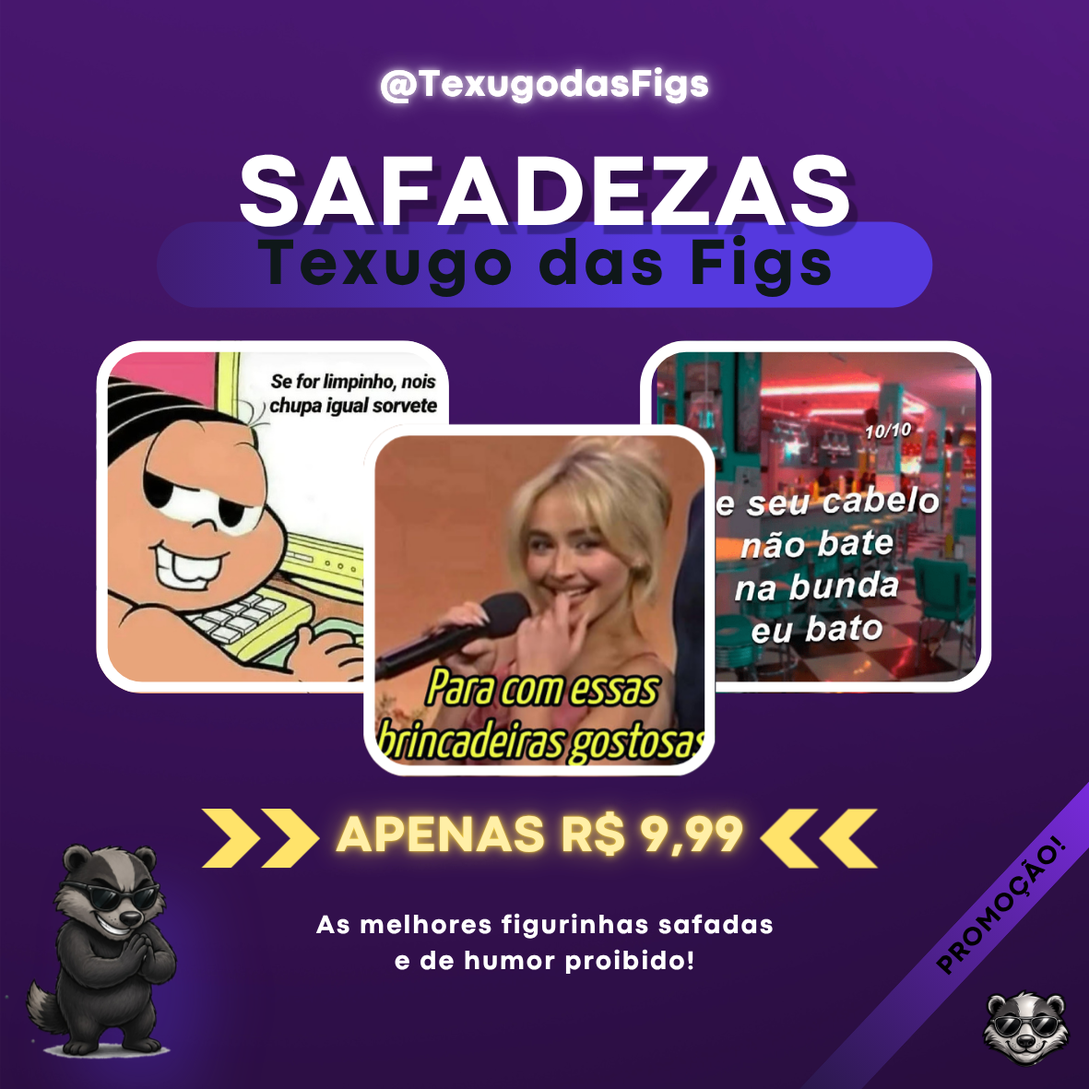
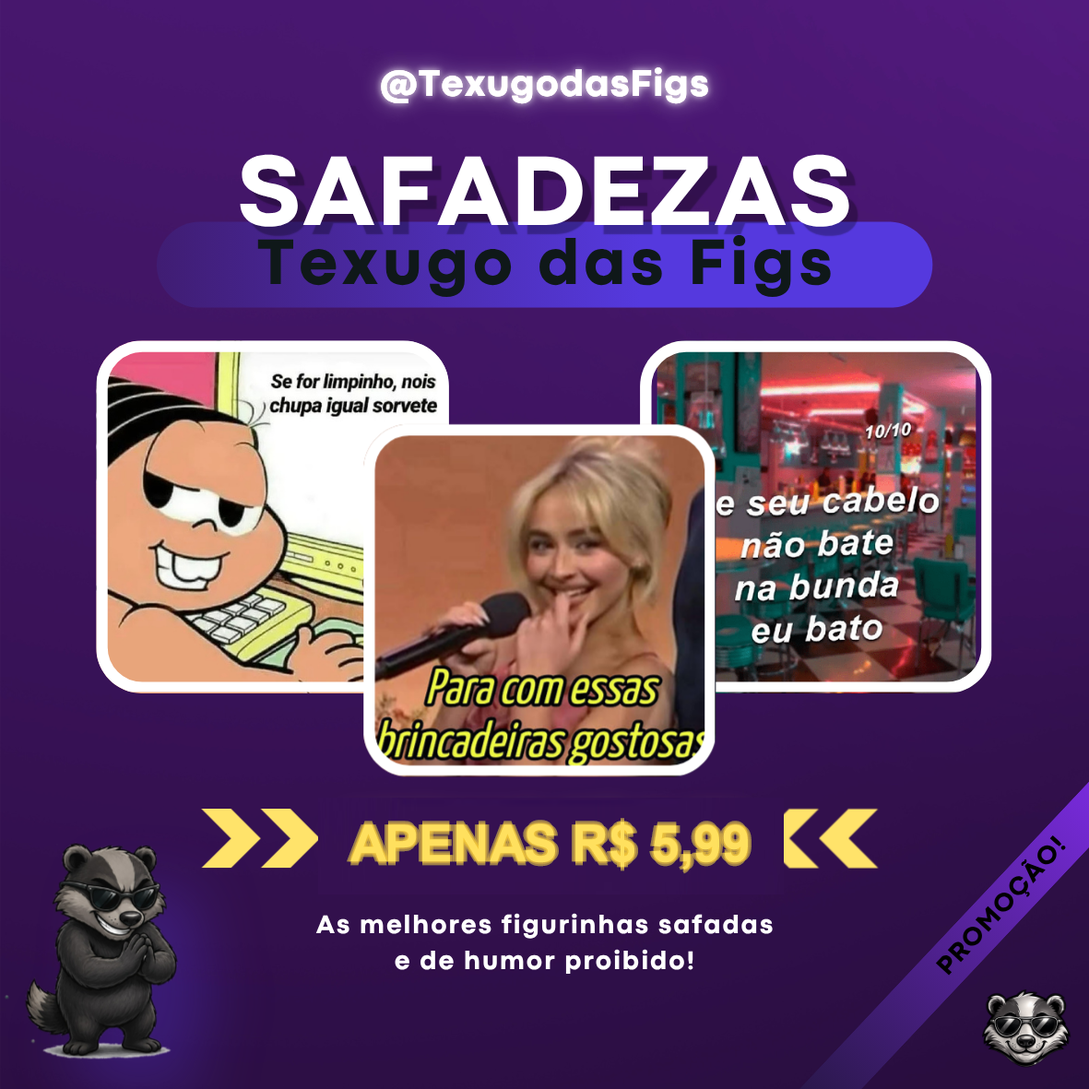
Atualiza precos e melhora fluxo de pedidos

Changed region(s): [[0.3048, 0.7316, 0.7316, 0.823]]

diff --git a/data.js b/data.js
@@ -9,35 +9,35 @@ window.STORE = {
     whatsapp: "https://wa.me/5588988181514?text=Olá%20Texugo%20das%20Figs!%20Quero%20saber%20mais%20sobre%20os%20packs."
   },
   packs: [
-    {id:"premium",title:"Premium Pack",category:"premium",price:19.99,count:"+800",image:"assets/packs/03-premium.png",color:"#d5ac2e",description:"Todos os packs da loja em uma única compra — a opção com melhor custo-benefício.",longDescription:"O Premium Pack reúne todo o acervo disponível no site no momento da compra. É ideal para quem não quer escolher apenas um tema e deseja ter uma resposta pronta para qualquer conversa: humor, reações, futebol, anime, trabalho, fandoms e muito mais. O acesso é vitalício e o pagamento é feito uma única vez.",previews:["assets/previas/respostas/respostas-06.mp4","assets/previas/safadezas/safadezas-01.mp4","assets/previas/anime/anime-02.mp4","assets/previas/league-of-legends/lol-05.jpeg","assets/previas/futebol/futebol-03.jpeg"],payment:"https://mpago.la/1up4NMd"},
-    {id:"respostas",title:"Respostas e Reações",category:"humor",price:9.99,count:"+ de 60",image:"assets/packs/01-respostas.png",color:"#2bbd6e",description:"Respostas secas, reações certeiras e memes para encerrar qualquer assunto com personalidade.",longDescription:"O carro-chefe do Texugo das Figs. Uma seleção variada de respostas secas, reações engraçadas e memes para aquela mensagem que você sabe exatamente como responder, mas prefere deixar uma figurinha falar por você. Inclui opções estáticas e animadas para todos os tipos de conversa.",featuredPreview:"assets/previas/respostas/respostas-06.mp4",previews:["assets/previas/respostas/respostas-01.mp4","assets/previas/respostas/respostas-02.mp4","assets/previas/respostas/respostas-03.jpeg","assets/previas/respostas/respostas-04.jpeg","assets/previas/respostas/respostas-05.jpeg"],payment:"https://mpago.la/22gk3Nq"},
-    {id:"safadezas",title:"Safadezas",category:"humor",price:9.99,count:"+ de 60",image:"assets/packs/04-safadezas.png",mascot:"assets/emotes/safadezas-canva.png",mascotMode:"canva",color:"#8134d7",description:"Humor picante e figurinhas ousadas para conversas com intimidade e bom humor.",longDescription:"Um pack de teor mais ousado, feito para conversas adultas e bem-humoradas. Reúne cantadas picantes, respostas atrevidas e reações para apimentar o papo. Use com intimidade, responsabilidade e, claro, muita zoeira.",featuredPreview:"assets/previas/safadezas/safadezas-01.mp4",previews:["assets/previas/safadezas/safadezas-01.mp4","assets/previas/safadezas/safadezas-02.mp4","assets/previas/safadezas/safadezas-03.jpeg","assets/previas/safadezas/safadezas-04.jpeg","assets/previas/safadezas/safadezas-05.jpeg"],payment:"https://mpago.la/1XbjVzy"},
-    {id:"trabalho",title:"Trabalho",category:"lifestyle",price:9.99,count:"+ de 60",image:"assets/packs/07-trabalho.png",mascot:"assets/emotes/trabalho.jpeg",color:"#329dd5",description:"The Office, CLT e aquela dose de humor necessária para sobreviver ao expediente.",longDescription:"Feito para o grupo da firma e para quem vive a rotina CLT. Tem memes de The Office, reuniões que poderiam ser um e-mail, cobranças, atrasos e todas as pequenas alegrias e tragédias do expediente. Perfeito para reagir sem precisar escrever um relatório.",featuredPreview:"assets/previas/trabalho/trabalho-01.mp4",previews:["assets/previas/trabalho/trabalho-01.mp4","assets/previas/trabalho/trabalho-02.mp4","assets/previas/trabalho/trabalho-03.mp4","assets/previas/trabalho/trabalho-04.jpeg","assets/previas/trabalho/trabalho-05.jpeg"],payment:"https://mpago.la/1PAKBbJ"},
-    {id:"eleicoes",title:"Eleições Memes",category:"humor",price:8.99,count:"+ de 60",image:"assets/packs/10-eleicoes.png",mascot:"assets/emotes/eleicoes.jpeg",color:"#dc413e",description:"Memes de política de todos os lados para animar o grupo da família.",longDescription:"Uma coleção de memes políticos para brincar com os acontecimentos, os candidatos e as discussões que nunca acabam no grupo da família. O humor não escolhe lado: o objetivo aqui é ter a reação perfeita e render boas risadas.",featuredPreview:"assets/previas/eleicoes/eleicoes-02.mp4",previews:["assets/previas/eleicoes/eleicoes-01.mp4","assets/previas/eleicoes/eleicoes-02.mp4","assets/previas/eleicoes/eleicoes-03.jpeg","assets/previas/eleicoes/eleicoes-04.jpeg","assets/previas/eleicoes/eleicoes-05.jpeg"],payment:"https://mpago.la/17YhUo3"},
-    {id:"kpop",title:"K-Pop Memes",category:"fandoms",price:9.99,count:"+ de 60",image:"assets/packs/05-kpop.png",mascot:"assets/emotes/kpop.jpeg",color:"#a874dc",description:"Reações e memes do universo K-Pop para mandar no grupo do fandom.",longDescription:"Um pack feito para quem vive cada comeback, acompanha seus idols favoritos e sempre tem uma reação pronta no grupo do fandom. Reúne memes, expressões e momentos perfeitos para comemorar, surtar e compartilhar seu amor pelo K-Pop.",featuredPreview:"assets/previas/kpop/kpop-01.mp4",previews:["assets/previas/kpop/kpop-01.mp4","assets/previas/kpop/kpop-02.mp4","assets/previas/kpop/kpop-03.jpeg","assets/previas/kpop/kpop-04.jpeg","assets/previas/kpop/kpop-05.jpeg"],payment:"https://mpago.la/2EtabLW"},
-    {id:"futebol",title:"Futebol Memes",category:"esportes",price:9.99,count:"+ de 60",image:"assets/packs/11-futebol.png",mascot:"assets/emotes/futebol-canva.png",mascotMode:"canva",color:"#24b663",description:"As melhores reações para resenha, pelada, vitória, derrota e corneta.",longDescription:"Para o grupo da pelada e para os amigos que não perdoam um resultado ruim. Este pack reúne memes de futebol, jogadores, torcidas e aquelas reações que servem tanto para comemorar uma vitória quanto para cornetar o rival.",featuredPreview:"assets/previas/futebol/futebol-03.jpeg",previews:["assets/previas/futebol/futebol-01.mp4","assets/previas/futebol/futebol-02.mp4","assets/previas/futebol/futebol-03.jpeg","assets/previas/futebol/futebol-04.jpeg","assets/previas/futebol/futebol-05.jpeg"],payment:"https://mpago.la/1wGmW4U"},
-    {id:"divas-pop",title:"Divas Pop",category:"fandoms",price:9.99,count:"+ de 60",image:"assets/packs/06-divas-pop.png",mascot:"assets/emotes/divas-pop.jpeg",color:"#d751b8",description:"Suas cantoras pop favoritas transformadas em reações para qualquer momento.",longDescription:"As maiores divas pop reunidas em um pack cheio de personalidade. São reações icônicas, momentos dramáticos, sorrisos, lágrimas e muita atitude para você usar em qualquer conversa — principalmente quando só uma diva consegue expressar o que você está sentindo.",featuredPreview:"assets/previas/divas-pop/divas-pop-05.jpeg",previews:["assets/previas/divas-pop/divas-pop-01.mp4","assets/previas/divas-pop/divas-pop-02.mp4","assets/previas/divas-pop/divas-pop-03.mp4","assets/previas/divas-pop/divas-pop-04.jpeg","assets/previas/divas-pop/divas-pop-05.jpeg"],payment:"https://mpago.la/28M7wQ9"},
-    {id:"gym",title:"Gym Memes",category:"lifestyle",price:4.99,count:"+ de 40",image:"assets/packs/02-gym.png",mascot:"assets/emotes/gym.jpeg",color:"#aeb4b3",description:"O pack para quem treina, promete treinar ou só quer rir da vida fitness.",longDescription:"Academia, musculação, dieta e a eterna luta contra a preguiça. Este pack foi feito tanto para quem não perde um treino quanto para quem só aparece na segunda-feira. Memes fitness para compartilhar com seu parceiro de treino e transformar sofrimento em risada.",featuredPreview:"assets/previas/gym/gym-04.jpeg",previews:["assets/previas/gym/gym-01.mp4","assets/previas/gym/gym-02.jpeg","assets/previas/gym/gym-03.jpeg","assets/previas/gym/gym-04.jpeg","assets/previas/gym/gym-05.jpeg"],payment:"https://mpago.la/25NzDDm"},
-    {id:"anime",title:"Anime Memes",category:"fandoms",price:9.99,count:"+ de 60",image:"assets/packs/08-anime.png",mascot:"assets/emotes/anime.jpeg",color:"#378fd4",description:"Anime, cultura otaku e reações perfeitas para o grupo dos seus nakamas.",longDescription:"Feito para compartilhar com os amigos fãs dos desenhos japoneses. O pack mistura personagens conhecidos, momentos clássicos, reações exageradas e memes da cultura otaku para usar em qualquer situação — do episódio novo à discussão sobre o melhor anime.",featuredPreview:"assets/previas/anime/anime-02.mp4",previews:["assets/previas/anime/anime-01.mp4","assets/previas/anime/anime-02.mp4","assets/previas/anime/anime-03.mp4","assets/previas/anime/anime-04.jpeg","assets/previas/anime/anime-05.jpeg"],payment:"https://mpago.la/2SEfHpp"},
-    {id:"cantadas",title:"Cantadas Enfadonhas",category:"humor",price:9.99,count:"+ de 60",image:"assets/packs/12-cantadas.png",mascot:"assets/emotes/cantadas.jpeg",color:"#e86580",description:"Cantadas ruins o bastante para funcionar — ou pelo menos render uma boa risada.",longDescription:"Figurinhas românticas de gêneros variados, misturando cantadas engraçadas, declarações exageradas e reações para quem está apaixonado. Talvez você não conquiste o crush de primeira, mas certamente vai conseguir começar uma conversa.",featuredPreview:"assets/previas/cantadas/cantadas-05.jpeg",previews:["assets/previas/cantadas/cantadas-01.mp4","assets/previas/cantadas/cantadas-02.mp4","assets/previas/cantadas/cantadas-03.jpeg","assets/previas/cantadas/cantadas-04.jpeg","assets/previas/cantadas/cantadas-05.jpeg"],payment:"https://mpago.la/1Gpmr6e"},
-    {id:"league-of-legends",title:"League of Legends",category:"games",price:9.99,count:"+ de 60",image:"assets/packs/09-lol.png",mascot:"assets/emotes/lol.jpeg",color:"#374cb7",description:"Para comemorar a vitória, lamentar o feed e reagir como um verdadeiro invocador.",longDescription:"Um pack para quem conhece a alegria de uma vitória e a tristeza profunda de uma sequência de derrotas. Campeões, jogadores, jogadas duvidosas e reações para usar antes, durante e depois da partida — especialmente quando alguém culpa o jungler.",featuredPreview:"assets/previas/league-of-legends/lol-05.jpeg",previews:["assets/previas/league-of-legends/lol-01.mp4","assets/previas/league-of-legends/lol-02.mp4","assets/previas/league-of-legends/lol-03.jpeg","assets/previas/league-of-legends/lol-04.jpeg","assets/previas/league-of-legends/lol-05.jpeg"],payment:"https://mpago.la/2KBVoNj"}
+    {id:"premium",title:"Premium Pack",category:"premium",price:11.99,count:"Todos os packs",image:"assets/packs/03-premium.png",color:"#d5ac2e",description:"Um único pagamento que dá direito a escolher todos os packs que quiser da loja — inclusive os temas mais nichados.",longDescription:"Com o Premium Pack, você não precisa escolher apenas um tema: pelo valor único do Premium, você tem direito a solicitar todos os packs que quiser disponíveis no site. Depois do pagamento, use o botão de atendimento para abrir seu pedido no WhatsApp. Você monta sua coleção com humor, reações, futebol, anime, trabalho, fandoms e outros nichos sem pagar separadamente por cada pack.",previews:["assets/previas/respostas/respostas-06.mp4","assets/previas/safadezas/safadezas-01.mp4","assets/previas/anime/anime-02.mp4","assets/previas/league-of-legends/lol-05.jpeg","assets/previas/futebol/futebol-03.jpeg"],payment:"https://mpago.la/1up4NMd"},
+    {id:"respostas",title:"Respostas e Reações",category:"humor",price:5.99,count:"+ de 60",image:"assets/packs/01-respostas.png",color:"#2bbd6e",description:"Respostas secas, reações certeiras e memes para encerrar qualquer assunto com personalidade.",longDescription:"O carro-chefe do Texugo das Figs. Uma seleção variada de respostas secas, reações engraçadas e memes para aquela mensagem que você sabe exatamente como responder, mas prefere deixar uma figurinha falar por você. Inclui opções estáticas e animadas para todos os tipos de conversa.",featuredPreview:"assets/previas/respostas/respostas-06.mp4",previews:["assets/previas/respostas/respostas-01.mp4","assets/previas/respostas/respostas-02.mp4","assets/previas/respostas/respostas-03.jpeg","assets/previas/respostas/respostas-04.jpeg","assets/previas/respostas/respostas-05.jpeg"],payment:"https://mpago.la/22gk3Nq"},
+    {id:"safadezas",title:"Safadezas",category:"humor",price:5.99,count:"+ de 60",image:"assets/packs/04-safadezas.png",mascot:"assets/emotes/safadezas-canva.png",mascotMode:"canva",color:"#8134d7",description:"Humor picante e figurinhas ousadas para conversas com intimidade e bom humor.",longDescription:"Um pack de teor mais ousado, feito para conversas adultas e bem-humoradas. Reúne cantadas picantes, respostas atrevidas e reações para apimentar o papo. Use com intimidade, responsabilidade e, claro, muita zoeira.",featuredPreview:"assets/previas/safadezas/safadezas-01.mp4",previews:["assets/previas/safadezas/safadezas-01.mp4","assets/previas/safadezas/safadezas-02.mp4","assets/previas/safadezas/safadezas-03.jpeg","assets/previas/safadezas/safadezas-04.jpeg","assets/previas/safadezas/safadezas-05.jpeg"],payment:"https://mpago.la/1XbjVzy"},
+    {id:"trabalho",title:"Trabalho",category:"lifestyle",price:5.99,count:"+ de 60",image:"assets/packs/07-trabalho.png",mascot:"assets/emotes/trabalho.jpeg",color:"#329dd5",description:"The Office, CLT e aquela dose de humor necessária para sobreviver ao expediente.",longDescription:"Feito para o grupo da firma e para quem vive a rotina CLT. Tem memes de The Office, reuniões que poderiam ser um e-mail, cobranças, atrasos e todas as pequenas alegrias e tragédias do expediente. Perfeito para reagir sem precisar escrever um relatório.",featuredPreview:"assets/previas/trabalho/trabalho-01.mp4",previews:["assets/previas/trabalho/trabalho-01.mp4","assets/previas/trabalho/trabalho-02.mp4","assets/previas/trabalho/trabalho-03.mp4","assets/previas/trabalho/trabalho-04.jpeg","assets/previas/trabalho/trabalho-05.jpeg"],payment:"https://mpago.la/1PAKBbJ"},
+    {id:"eleicoes",title:"Eleições Memes",category:"humor",price:4.99,count:"+ de 60",image:"assets/packs/10-eleicoes.png",mascot:"assets/emotes/eleicoes.jpeg",color:"#dc413e",description:"Memes de política de todos os lados para animar o grupo da família.",longDescription:"Uma coleção de memes políticos para brincar com os acontecimentos, os candidatos e as discussões que nunca acabam no grupo da família. O humor não escolhe lado: o objetivo aqui é ter a reação perfeita e render boas risadas.",featuredPreview:"assets/previas/eleicoes/eleicoes-02.mp4",previews:["assets/previas/eleicoes/eleicoes-01.mp4","assets/previas/eleicoes/eleicoes-02.mp4","assets/previas/eleicoes/eleicoes-03.jpeg","assets/previas/eleicoes/eleicoes-04.jpeg","assets/previas/eleicoes/eleicoes-05.jpeg"],payment:"https://mpago.la/17YhUo3"},
+    {id:"kpop",title:"K-Pop Memes",category:"fandoms",price:5.99,count:"+ de 60",image:"assets/packs/05-kpop.png",mascot:"assets/emotes/kpop.jpeg",color:"#a874dc",description:"Reações e memes do universo K-Pop para mandar no grupo do fandom.",longDescription:"Um pack feito para quem vive cada comeback, acompanha seus idols favoritos e sempre tem uma reação pronta no grupo do fandom. Reúne memes, expressões e momentos perfeitos para comemorar, surtar e compartilhar seu amor pelo K-Pop.",featuredPreview:"assets/previas/kpop/kpop-01.mp4",previews:["assets/previas/kpop/kpop-01.mp4","assets/previas/kpop/kpop-02.mp4","assets/previas/kpop/kpop-03.jpeg","assets/previas/kpop/kpop-04.jpeg","assets/previas/kpop/kpop-05.jpeg"],payment:"https://mpago.la/2EtabLW"},
+    {id:"futebol",title:"Futebol Memes",category:"esportes",price:5.99,count:"+ de 60",image:"assets/packs/11-futebol.png",mascot:"assets/emotes/futebol-canva.png",mascotMode:"canva",color:"#24b663",description:"As melhores reações para resenha, pelada, vitória, derrota e corneta.",longDescription:"Para o grupo da pelada e para os amigos que não perdoam um resultado ruim. Este pack reúne memes de futebol, jogadores, torcidas e aquelas reações que servem tanto para comemorar uma vitória quanto para cornetar o rival.",featuredPreview:"assets/previas/futebol/futebol-03.jpeg",previews:["assets/previas/futebol/futebol-01.mp4","assets/previas/futebol/futebol-02.mp4","assets/previas/futebol/futebol-03.jpeg","assets/previas/futebol/futebol-04.jpeg","assets/previas/futebol/futebol-05.jpeg"],payment:"https://mpago.la/1wGmW4U"},
+    {id:"divas-pop",title:"Divas Pop",category:"fandoms",price:5.99,count:"+ de 60",image:"assets/packs/06-divas-pop.png",mascot:"assets/emotes/divas-pop.jpeg",color:"#d751b8",description:"Suas cantoras pop favoritas transformadas em reações para qualquer momento.",longDescription:"As maiores divas pop reunidas em um pack cheio de personalidade. São reações icônicas, momentos dramáticos, sorrisos, lágrimas e muita atitude para você usar em qualquer conversa — principalmente quando só uma diva consegue expressar o que você está sentindo.",featuredPreview:"assets/previas/divas-pop/divas-pop-05.jpeg",previews:["assets/previas/divas-pop/divas-pop-01.mp4","assets/previas/divas-pop/divas-pop-02.mp4","assets/previas/divas-pop/divas-pop-03.mp4","assets/previas/divas-pop/divas-pop-04.jpeg","assets/previas/divas-pop/divas-pop-05.jpeg"],payment:"https://mpago.la/28M7wQ9"},
+    {id:"gym",title:"Gym Memes",category:"lifestyle",price:2.50,count:"+ de 40",image:"assets/packs/02-gym.png",mascot:"assets/emotes/gym.jpeg",color:"#aeb4b3",description:"O pack para quem treina, promete treinar ou só quer rir da vida fitness.",longDescription:"Academia, musculação, dieta e a eterna luta contra a preguiça. Este pack foi feito tanto para quem não perde um treino quanto para quem só aparece na segunda-feira. Memes fitness para compartilhar com seu parceiro de treino e transformar sofrimento em risada.",featuredPreview:"assets/previas/gym/gym-04.jpeg",previews:["assets/previas/gym/gym-01.mp4","assets/previas/gym/gym-02.jpeg","assets/previas/gym/gym-03.jpeg","assets/previas/gym/gym-04.jpeg","assets/previas/gym/gym-05.jpeg"],payment:"https://mpago.la/25NzDDm"},
+    {id:"anime",title:"Anime Memes",category:"fandoms",price:5.99,count:"+ de 60",image:"assets/packs/08-anime.png",mascot:"assets/emotes/anime.jpeg",color:"#378fd4",description:"Anime, cultura otaku e reações perfeitas para o grupo dos seus nakamas.",longDescription:"Feito para compartilhar com os amigos fãs dos desenhos japoneses. O pack mistura personagens conhecidos, momentos clássicos, reações exageradas e memes da cultura otaku para usar em qualquer situação — do episódio novo à discussão sobre o melhor anime.",featuredPreview:"assets/previas/anime/anime-02.mp4",previews:["assets/previas/anime/anime-01.mp4","assets/previas/anime/anime-02.mp4","assets/previas/anime/anime-03.mp4","assets/previas/anime/anime-04.jpeg","assets/previas/anime/anime-05.jpeg"],payment:"https://mpago.la/2SEfHpp"},
+    {id:"cantadas",title:"Cantadas Enfadonhas",category:"humor",price:5.99,count:"+ de 60",image:"assets/packs/12-cantadas.png",mascot:"assets/emotes/cantadas.jpeg",color:"#e86580",description:"Cantadas ruins o bastante para funcionar — ou pelo menos render uma boa risada.",longDescription:"Figurinhas românticas de gêneros variados, misturando cantadas engraçadas, declarações exageradas e reações para quem está apaixonado. Talvez você não conquiste o crush de primeira, mas certamente vai conseguir começar uma conversa.",featuredPreview:"assets/previas/cantadas/cantadas-05.jpeg",previews:["assets/previas/cantadas/cantadas-01.mp4","assets/previas/cantadas/cantadas-02.mp4","assets/previas/cantadas/cantadas-03.jpeg","assets/previas/cantadas/cantadas-04.jpeg","assets/previas/cantadas/cantadas-05.jpeg"],payment:"https://mpago.la/1Gpmr6e"},
+    {id:"league-of-legends",title:"League of Legends",category:"games",price:5.99,count:"+ de 60",image:"assets/packs/09-lol.png",mascot:"assets/emotes/lol.jpeg",color:"#374cb7",description:"Para comemorar a vitória, lamentar o feed e reagir como um verdadeiro invocador.",longDescription:"Um pack para quem conhece a alegria de uma vitória e a tristeza profunda de uma sequência de derrotas. Campeões, jogadores, jogadas duvidosas e reações para usar antes, durante e depois da partida — especialmente quando alguém culpa o jungler.",featuredPreview:"assets/previas/league-of-legends/lol-05.jpeg",previews:["assets/previas/league-of-legends/lol-01.mp4","assets/previas/league-of-legends/lol-02.mp4","assets/previas/league-of-legends/lol-03.jpeg","assets/previas/league-of-legends/lol-04.jpeg","assets/previas/league-of-legends/lol-05.jpeg"],payment:"https://mpago.la/2KBVoNj"}
   ]
 };
 
 // Preços exibidos na loja. Gym e Eleições mantêm seus valores promocionais próprios.
 const currentPrices = {
-  premium: 19.99,
-  respostas: 9.99,
-  safadezas: 9.99,
-  trabalho: 9.99,
-  eleicoes: 8.99,
-  kpop: 9.99,
-  futebol: 9.99,
-  "divas-pop": 9.99,
-  gym: 4.99,
-  anime: 9.99,
-  cantadas: 9.99,
-  "league-of-legends": 9.99
+  premium: 11.99,
+  respostas: 5.99,
+  safadezas: 5.99,
+  trabalho: 5.99,
+  eleicoes: 4.99,
+  kpop: 5.99,
+  futebol: 5.99,
+  "divas-pop": 5.99,
+  gym: 2.50,
+  anime: 5.99,
+  cantadas: 5.99,
+  "league-of-legends": 5.99
 };
 
 window.STORE.packs.forEach(pack => {
@@ -45,6 +45,6 @@ window.STORE.packs.forEach(pack => {
   if (pack.id === "premium") {
     pack.count = "Todos os packs";
     pack.description = "Um único pagamento que dá direito a escolher todos os packs que quiser da loja — inclusive os temas mais nichados.";
-    pack.longDescription = "Com o Premium Pack, você não precisa escolher apenas um tema: pelo valor único do Premium, você tem direito a solicitar todos os packs que quiser disponíveis no site. Depois do pagamento, basta enviar no WhatsApp o nome do Premium Pack e o comprovante. Você monta sua coleção com humor, reações, futebol, anime, trabalho, fandoms e outros nichos sem pagar separadamente por cada pack.";
+    pack.longDescription = "Com o Premium Pack, você não precisa escolher apenas um tema: pelo valor único do Premium, você tem direito a solicitar todos os packs que quiser disponíveis no site. Depois do pagamento, use o botão de atendimento para abrir seu pedido no WhatsApp. Você monta sua coleção com humor, reações, futebol, anime, trabalho, fandoms e outros nichos sem pagar separadamente por cada pack.";
   }
 });

diff --git a/index.html b/index.html
@@ -52,18 +52,18 @@
     <section class="purchase-info" id="seguranca" aria-labelledby="purchase-info-title">
       <div class="purchase-info-intro">
         <img src="assets/compra-segura.png" alt="Selo Compra Segura">
-        <div class="purchase-info-heading"><span class="eyebrow">ANTES DE COMPRAR</span><h2 id="purchase-info-title">Compra segura. Entrega no WhatsApp.</h2><p>Depois de pagar, abra nosso WhatsApp, informe o nome do pack e envie o comprovante. As figurinhas serão entregues na mesma conversa.</p></div>
+        <div class="purchase-info-heading"><span class="eyebrow">ANTES DE COMPRAR</span><h2 id="purchase-info-title">Compra segura. Entrega no WhatsApp.</h2><p>Ao escolher um pack, o site cria seu número de pedido. Depois do pagamento, abra a mensagem pronta no WhatsApp para receber as figurinhas na mesma conversa.</p></div>
       </div>
       <div class="purchase-info-grid">
         <article><i>✓</i><div><b>Mercado Pago</b><span>O pagamento é processado com segurança pelo Mercado Pago.</span></div></article>
         <article><i>∞</i><div><b>Pagamento único</b><span>Você paga uma vez e mantém acesso vitalício ao pack adquirido.</span></div></article>
-        <article><i>↗</i><div><b>Entrega no WhatsApp</b><span>Envie o nome do pack e o comprovante. Você recebe as figurinhas diretamente na conversa, em até 24 horas.</span></div></article>
+        <article><i>↗</i><div><b>Entrega no WhatsApp</b><span>O número do pedido e o nome do pack já seguem na mensagem. Você recebe as figurinhas diretamente na conversa, em até 24 horas.</span></div></article>
         <article><i>●</i><div><b>Suporte humano</b><span>Fale pelo WhatsApp, Instagram ou pelo e-mail texugodasfigs@gmail.com.</span></div></article>
         <article><i>◉</i><div><b>Conteúdo sem som</b><span>Os packs podem incluir figurinhas estáticas e animadas, sempre sem áudio.</span></div></article>
         <article><i>18</i><div><b>Conteúdo adulto</b><span>O pack Safadezas é destinado exclusivamente a maiores de 18 anos.</span></div></article>
       </div>
-      <p class="digital-policy"><b>Importante:</b> a entrega não é automática. Após o pagamento, use o botão “Já paguei — ir para o WhatsApp”, informe o nome do pack e anexe o comprovante. É por essa conversa que você receberá as figurinhas.</p>
-      <div class="purchase-info-action"><a class="button whatsapp-button" data-whatsapp-receipt href="#">Receber minhas figurinhas no WhatsApp ↗</a><small>A mensagem já vem pronta. Basta completar o nome do pack comprado; se for necessário, o atendimento solicitará o comprovante.</small></div>
+      <p class="digital-policy"><b>Importante:</b> a entrega é feita por atendimento humano. Após pagar, use o botão “Já paguei — ir para o WhatsApp”. O comprovante só será solicitado se o pagamento ainda estiver pendente ou houver alguma divergência.</p>
+      <div class="purchase-info-action"><a class="button whatsapp-button" data-whatsapp-receipt href="#">Receber minhas figurinhas no WhatsApp ↗</a><small>A mensagem leva o pedido e o pack automaticamente quando a compra é iniciada pelo site.</small></div>
     </section>
 
     <section class="details-section" id="detalhes">
@@ -74,12 +74,12 @@
 
     <section class="steps" id="como-funciona">
       <div class="steps-title"><span class="eyebrow">SEM COMPLICAÇÃO</span><h2>Do clique às figurinhas.</h2><p>Quatro passos claros, com pagamento protegido e entrega feita diretamente pelo WhatsApp.</p></div>
-      <div class="step-grid"><article><b>01</b><i>☝</i><h3>Escolha o pack</h3><p>Compare os temas e selecione seu favorito.</p></article><article><b>02</b><i>▣</i><h3>Faça o pagamento</h3><p>Finalize com segurança pelo Mercado Pago.</p></article><article><b>03</b><i>✆</i><h3>Abra o WhatsApp</h3><p>Após pagar, use o botão do site para iniciar a conversa conosco.</p></article><article><b>04</b><i>✓</i><h3>Envie e receba</h3><p>Mande o nome do pack e o comprovante. Você receberá as figurinhas no WhatsApp.</p><a class="whatsapp-text-link" data-whatsapp-receipt href="#">Abrir mensagem pronta ↗</a></article></div>
+      <div class="step-grid"><article><b>01</b><i>☝</i><h3>Escolha o pack</h3><p>Compare os temas e receba um número de pedido.</p></article><article><b>02</b><i>▣</i><h3>Faça o pagamento</h3><p>Finalize com segurança pelo Mercado Pago.</p></article><article><b>03</b><i>✆</i><h3>Abra o WhatsApp</h3><p>Use a mensagem pronta com seu pedido e o pack escolhido.</p></article><article><b>04</b><i>✓</i><h3>Receba as figurinhas</h3><p>O atendimento confirma a compra e envia tudo diretamente no WhatsApp.</p><a class="whatsapp-text-link" data-whatsapp-receipt href="#">Abrir mensagem pronta ↗</a></article></div>
     </section>
 
     <section class="premium-section" id="premium">
       <div class="premium-image"><img src="assets/packs/03-premium.png" alt="Capa do Premium Pack"><span>MAIS VENDIDO</span></div>
-      <div class="premium-copy"><span class="eyebrow gold-text">O MELHOR CUSTO-BENEFÍCIO</span><h2>Escolha todos os packs<br>que quiser.</h2><p>Pague uma única vez e tenha direito a solicitar todos os packs que quiser da loja — dos favoritos aos temas mais nichados. Depois, abra a mensagem pronta do Premium no WhatsApp para receber sua coleção.</p><div class="premium-metric"><b>12</b><span>packs disponíveis para você escolher</span></div><ul><li>Direito a todos os packs que quiser</li><li>Entrega pelo WhatsApp</li><li>Acesso vitalício</li><li>Pagamento único</li></ul><div class="premium-buy"><strong>R$ 19,99</strong><div class="premium-actions"><button class="button gold" data-buy="premium">Quero o Premium</button><a class="whatsapp-text-link" data-whatsapp-premium href="#">Já paguei — receber no WhatsApp ↗</a></div></div></div>
+      <div class="premium-copy"><span class="eyebrow gold-text">O MELHOR CUSTO-BENEFÍCIO</span><h2>Escolha todos os packs<br>que quiser.</h2><p>Pague uma única vez e tenha direito a solicitar todos os packs que quiser da loja — dos favoritos aos temas mais nichados. Depois, abra a mensagem pronta do Premium no WhatsApp para receber sua coleção.</p><div class="premium-metric"><b>12</b><span>packs disponíveis para você escolher</span></div><ul><li>Direito a todos os packs que quiser</li><li>Entrega pelo WhatsApp</li><li>Acesso vitalício</li><li>Pagamento único</li></ul><div class="premium-buy"><strong>R$ 11,99</strong><div class="premium-actions"><button class="button gold" data-buy="premium">Quero o Premium</button><a class="whatsapp-text-link" data-whatsapp-premium href="#">Já paguei — receber no WhatsApp ↗</a></div></div></div>
     </section>
 
     <section class="custom-banner" id="personalizadas">
@@ -88,12 +88,12 @@
     </section>
 
     <section class="faq"><div class="split-heading"><div><span class="eyebrow">TUDO CLARO</span><h2>Dúvidas frequentes.</h2></div></div>
-      <details><summary>Como receberei as figurinhas?</summary><p>Depois do pagamento, clique em “Já paguei — ir para o WhatsApp”, informe o nome do pack e anexe o comprovante. As figurinhas serão enviadas diretamente nessa conversa.</p></details>
-      <details><summary>O que preciso enviar no WhatsApp?</summary><p>Envie duas informações: o nome exato do pack comprado e o comprovante do pagamento. Isso permite localizar sua compra e separar as figurinhas corretas.</p></details>
-      <details><summary>A entrega é automática?</summary><p>Não. O atendimento é humano. Você inicia a conversa pelo botão do site e recebe as figurinhas no WhatsApp em até 24 horas após enviar o nome do pack e o comprovante.</p></details>
+      <details><summary>Como receberei as figurinhas?</summary><p>Depois do pagamento, clique em “Já paguei — ir para o WhatsApp”. A mensagem já informa o número do pedido e o pack escolhido. As figurinhas serão enviadas diretamente nessa conversa.</p></details>
+      <details><summary>Preciso enviar o comprovante?</summary><p>Normalmente, não. Ele será solicitado somente se o pagamento aparecer como pendente, se houver alguma divergência ou se você tiver usado um Pix direto fora do link do site.</p></details>
+      <details><summary>A entrega é automática?</summary><p>Não. O atendimento é humano. Você inicia a conversa pela mensagem pronta e recebe as figurinhas no WhatsApp em até 24 horas após a confirmação do pagamento.</p></details>
       <details><summary>O pagamento é feito uma única vez?</summary><p>Sim. Não existe mensalidade ou cobrança recorrente. Você paga uma vez pelo pack escolhido.</p></details>
       <details><summary>O acesso às figurinhas expira?</summary><p>Não. O acesso ao conteúdo adquirido é vitalício.</p></details>
-      <details><summary>Quanto tempo demora a entrega?</summary><p>As figurinhas são enviadas pelo WhatsApp em até 24 horas após você informar o nome do pack e enviar o comprovante.</p></details>
+      <details><summary>Quanto tempo demora a entrega?</summary><p>As figurinhas são enviadas pelo WhatsApp em até 24 horas após a confirmação do pagamento.</p></details>
       <details><summary>Funciona em Android e iPhone?</summary><p>Sim. As figurinhas são preparadas para uso no WhatsApp em celulares Android e iPhone.</p></details>
       <details><summary>Como adiciono as figurinhas ao WhatsApp?</summary><p>As figurinhas e um passo a passo simples são enviados na conversa. Se precisar, o suporte ajuda durante a instalação.</p></details>
       <details><summary>As figurinhas animadas possuem som?</summary><p>Não. Tanto as figurinhas estáticas quanto as animadas são fornecidas sem áudio.</p></details>
@@ -115,17 +115,17 @@
       <button class="purchase-close" type="button" data-close-purchase aria-label="Fechar">×</button>
       <span class="eyebrow">ENTREGA PELO WHATSAPP</span>
       <h2 id="purchase-dialog-title">Compre e receba sem complicação.</h2>
-      <p class="purchase-selected"><b data-purchase-pack>Pack escolhido</b><strong data-purchase-price>R$ 0,00</strong></p>
+      <p class="purchase-selected"><b data-purchase-pack>Pack escolhido</b><strong data-purchase-price>R$ 0,00</strong></p><p class="purchase-order">Pedido <b data-purchase-order>TXG-0000</b></p>
       <div class="purchase-dialog-steps">
         <article><b>1</b><div><strong>Efetue o pagamento</strong><span>Conclua a compra com segurança no Mercado Pago.</span></div></article>
-        <article><b>2</b><div><strong>Vá para o WhatsApp</strong><span>Envie o nome do pack e anexe o comprovante.</span></div></article>
+        <article><b>2</b><div><strong>Vá para o WhatsApp</strong><span>A mensagem já leva seu pedido e o nome do pack.</span></div></article>
         <article><b>3</b><div><strong>Receba as figurinhas</strong><span>A entrega será feita diretamente na mesma conversa.</span></div></article>
       </div>
       <div class="purchase-dialog-actions">
         <a class="button primary" data-payment-link href="#" target="_blank" rel="noopener">1. Pagar no Mercado Pago ↗</a>
         <a class="button whatsapp-button" data-whatsapp-after-payment href="#" target="_blank" rel="noopener">2. Já paguei — ir para o WhatsApp</a>
       </div>
-      <p class="purchase-reminder"><b>Não esqueça:</b> informe o nome do pack e envie o comprovante para receber as figurinhas no WhatsApp.</p>
+      <p class="purchase-reminder"><b>Pronto:</b> seu pedido foi identificado. O comprovante só será solicitado se o pagamento ainda não aparecer ou houver alguma divergência.</p>
     </section>
   </div>
   <script src="data.js"></script><script src="app.js"></script>

diff --git a/app.js b/app.js
@@ -26,8 +26,18 @@ const headlines={
 };
 const money=value=>value.toLocaleString('pt-BR',{style:'currency',currency:'BRL'});
 const whatsappNumber='5588988181514';
-const whatsappReceiptMessage=packName=>`Olá, Texugo das Figs! Já realizei minha compra no site e quero receber as figurinhas pelo WhatsApp. Pack comprado: ${packName||'[DIGITE O NOME DO PACK AQUI]'}.`;
-const whatsappReceiptUrl=packName=>`https://wa.me/${whatsappNumber}?text=${encodeURIComponent(whatsappReceiptMessage(packName))}`;
+const sourceTag=new URLSearchParams(location.search).get('src')||'site';
+const makeOrderId=()=>`TXG-${Date.now().toString(36).slice(-5).toUpperCase()}${Math.random().toString(36).slice(2,4).toUpperCase()}`;
+const getLastOrder=()=>{try{return JSON.parse(localStorage.getItem('texugo:lastOrder')||'null')}catch{return null}};
+const saveOrder=pack=>{
+  const previous=getLastOrder();
+  if(previous&&previous.packId===pack.id&&Date.now()-previous.createdAt<30*60*1000)return previous;
+  const order={id:makeOrderId(),packId:pack.id,packName:pack.title,price:pack.price,source:sourceTag,status:'Novo',createdAt:Date.now()};
+  try{localStorage.setItem('texugo:lastOrder',JSON.stringify(order))}catch{}
+  return order;
+};
+const whatsappReceiptMessage=(packName,orderId)=>`Olá, Texugo das Figs! Quero receber minhas figurinhas pelo WhatsApp. Pedido: ${orderId||'[INFORME O NÚMERO DO PEDIDO]'}. Pack: ${packName||'[INFORME O PACK COMPRADO]'}. Já efetuei o pagamento pelo Mercado Pago. Se ele ainda não aparecer no atendimento, posso enviar o comprovante.`;
+const whatsappReceiptUrl=(packName,orderId)=>`https://wa.me/${whatsappNumber}?text=${encodeURIComponent(whatsappReceiptMessage(packName,orderId))}`;
 let activePack=packs[0].id;
 
 const previewObserver='IntersectionObserver' in window?new IntersectionObserver(entries=>{
@@ -149,9 +159,11 @@ function buy(id){
   const pack=store.packs.find(item=>item.id===id);
   const flow=document.querySelector('#purchase-flow');
   if(!pack||!flow||!pack.payment.startsWith('http'))return;
-  const whatsappMessage=whatsappReceiptMessage(pack.title);
+  const order=saveOrder(pack);
+  const whatsappMessage=whatsappReceiptMessage(pack.title,order.id);
   flow.querySelector('[data-purchase-pack]').textContent=pack.title;
   flow.querySelector('[data-purchase-price]').textContent=money(pack.price);
+  flow.querySelector('[data-purchase-order]').textContent=order.id;
   flow.querySelector('[data-payment-link]').href=pack.payment;
   flow.querySelector('[data-whatsapp-after-payment]').href=`https://wa.me/${whatsappNumber}?text=${encodeURIComponent(whatsappMessage)}`;
   flow.hidden=false;
@@ -173,6 +185,6 @@ document.addEventListener('click',event=>{
 });
 document.addEventListener('keydown',event=>{if(event.key==='Escape')closePurchaseFlow()});
 document.querySelectorAll('[data-social]').forEach(link=>{link.href=store.socials[link.dataset.social];link.target='_blank';link.rel='noopener'});
-document.querySelectorAll('[data-whatsapp-receipt]').forEach(link=>{link.href=whatsappReceiptUrl();link.target='_blank';link.rel='noopener'});
-document.querySelectorAll('[data-whatsapp-premium]').forEach(link=>{link.href=whatsappReceiptUrl('Premium Pack');link.target='_blank';link.rel='noopener'});
+document.querySelectorAll('[data-whatsapp-receipt]').forEach(link=>{const order=getLastOrder();link.href=whatsappReceiptUrl(order?.packName,order?.id);link.target='_blank';link.rel='noopener'});
+document.querySelectorAll('[data-whatsapp-premium]').forEach(link=>{const order=getLastOrder();link.href=whatsappReceiptUrl('Premium Pack',order?.packId==='premium'?order.id:null);link.target='_blank';link.rel='noopener'});
 renderHomePreviews();setupPreviewRotation();setupViewportAnimations();setupCatalog();setupDetails();

diff --git a/obrigado.html b/obrigado.html
@@ -1,1 +1,1 @@
-<!doctype html><html lang="pt-BR"><head><meta charset="utf-8"><meta name="viewport" content="width=device-width,initial-scale=1"><title>Compra recebida — Texugo das Figs</title><link rel="icon" href="assets/icone.png"><link rel="stylesheet" href="styles.css"></head><body><main class="success-page"><img src="assets/mascote-cartoes.jpeg" alt="Texugo feliz"><span class="eyebrow">PAGAMENTO REALIZADO</span><h1>Boa escolha! Agora falta só um passo.</h1><p>Envie seu comprovante pelo WhatsApp para receber as figurinhas. Guarde também o e-mail de confirmação do Mercado Pago.</p><a class="button primary" data-social="whatsapp" href="#">Enviar comprovante</a><a class="text-link" href="index.html">Voltar para a loja</a></main><script src="data.js"></script><script src="app.js"></script></body></html>
+<!doctype html><html lang="pt-BR"><head><meta charset="utf-8"><meta name="viewport" content="width=device-width,initial-scale=1"><title>Continue seu pedido — Texugo das Figs</title><link rel="icon" href="assets/icone.png"><link rel="stylesheet" href="styles.css"></head><body><main class="success-page"><img src="assets/mascote-cartoes.jpeg" alt="Texugo feliz"><span class="eyebrow">PAGAMENTO REALIZADO</span><h1>Boa escolha! Agora abra seu pedido.</h1><p>Use a mensagem pronta para receber as figurinhas no WhatsApp. O comprovante só será solicitado se o pagamento ainda não estiver confirmado ou houver alguma divergência.</p><a class="button primary" data-whatsapp-receipt href="#">Receber no WhatsApp</a><a class="text-link" href="index.html">Voltar para a loja</a></main><script src="data.js"></script><script src="app.js"></script></body></html>

diff --git a/styles.css b/styles.css
@@ -26,6 +26,7 @@
 body.purchase-open{overflow:hidden}
 .purchase-flow{position:fixed;inset:0;z-index:1000;display:grid;place-items:center;padding:20px;background:rgba(0,0,0,.8);backdrop-filter:blur(12px)}
 .purchase-flow[hidden]{display:none}
+.purchase-order{margin:-4px 0 18px;color:var(--muted);font-size:.82rem;letter-spacing:.08em;text-transform:uppercase}.purchase-order b{color:var(--gold);font-size:.95rem}
 .purchase-dialog{position:relative;width:min(720px,100%);max-height:min(90vh,760px);overflow:auto;scrollbar-width:thin;scrollbar-color:var(--green) #07130f;background:linear-gradient(145deg,#07130f,#020705);border:1px solid rgba(42,211,143,.42);border-radius:28px;padding:clamp(24px,5vw,48px);box-shadow:0 30px 80px rgba(0,0,0,.65),0 0 50px rgba(26,189,126,.15)}
 .purchase-dialog::-webkit-scrollbar{width:8px}.purchase-dialog::-webkit-scrollbar-track{background:#07130f;border-radius:99px}.purchase-dialog::-webkit-scrollbar-thumb{background:var(--green);border-radius:99px;border:2px solid #07130f}
 .purchase-close{position:absolute;top:16px;right:16px;width:38px;height:38px;border:1px solid var(--line);border-radius:50%;background:#ffffff0a;color:#fff;font-size:22px;cursor:pointer}
